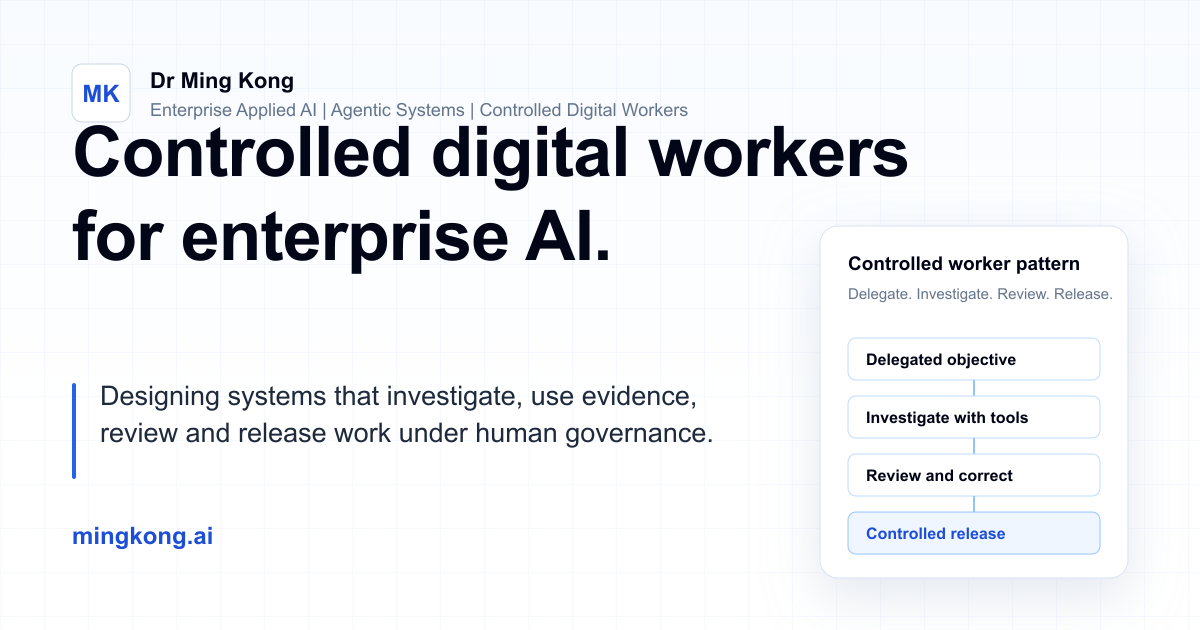
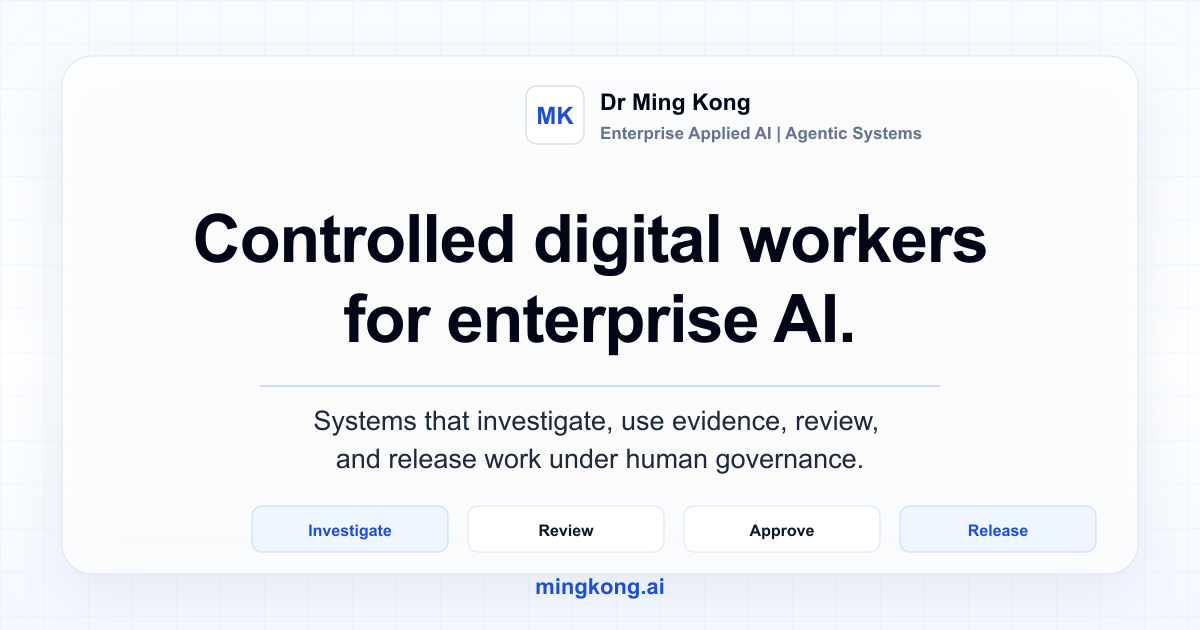
Improve social share preview crop

diff --git a/app/layout.tsx b/app/layout.tsx
@@ -14,8 +14,8 @@ export const metadata: Metadata = {
     siteName: "mingkong.ai",
     images: [
       {
-        url: "https://mingkong.ai/linkedin-card.jpg",
-        secureUrl: "https://mingkong.ai/linkedin-card.jpg",
+        url: "https://mingkong.ai/social-card-v2.jpg",
+        secureUrl: "https://mingkong.ai/social-card-v2.jpg",
         type: "image/jpeg",
         width: 1200,
         height: 630,
@@ -31,7 +31,7 @@ export const metadata: Metadata = {
       "Enterprise Applied AI, agentic systems and controlled digital workers.",
     images: [
       {
-        url: "https://mingkong.ai/linkedin-card.jpg",
+        url: "https://mingkong.ai/social-card-v2.jpg",
         alt: "Dr Ming Kong - Controlled digital workers for enterprise AI",
         width: 1200,
         height: 630,
